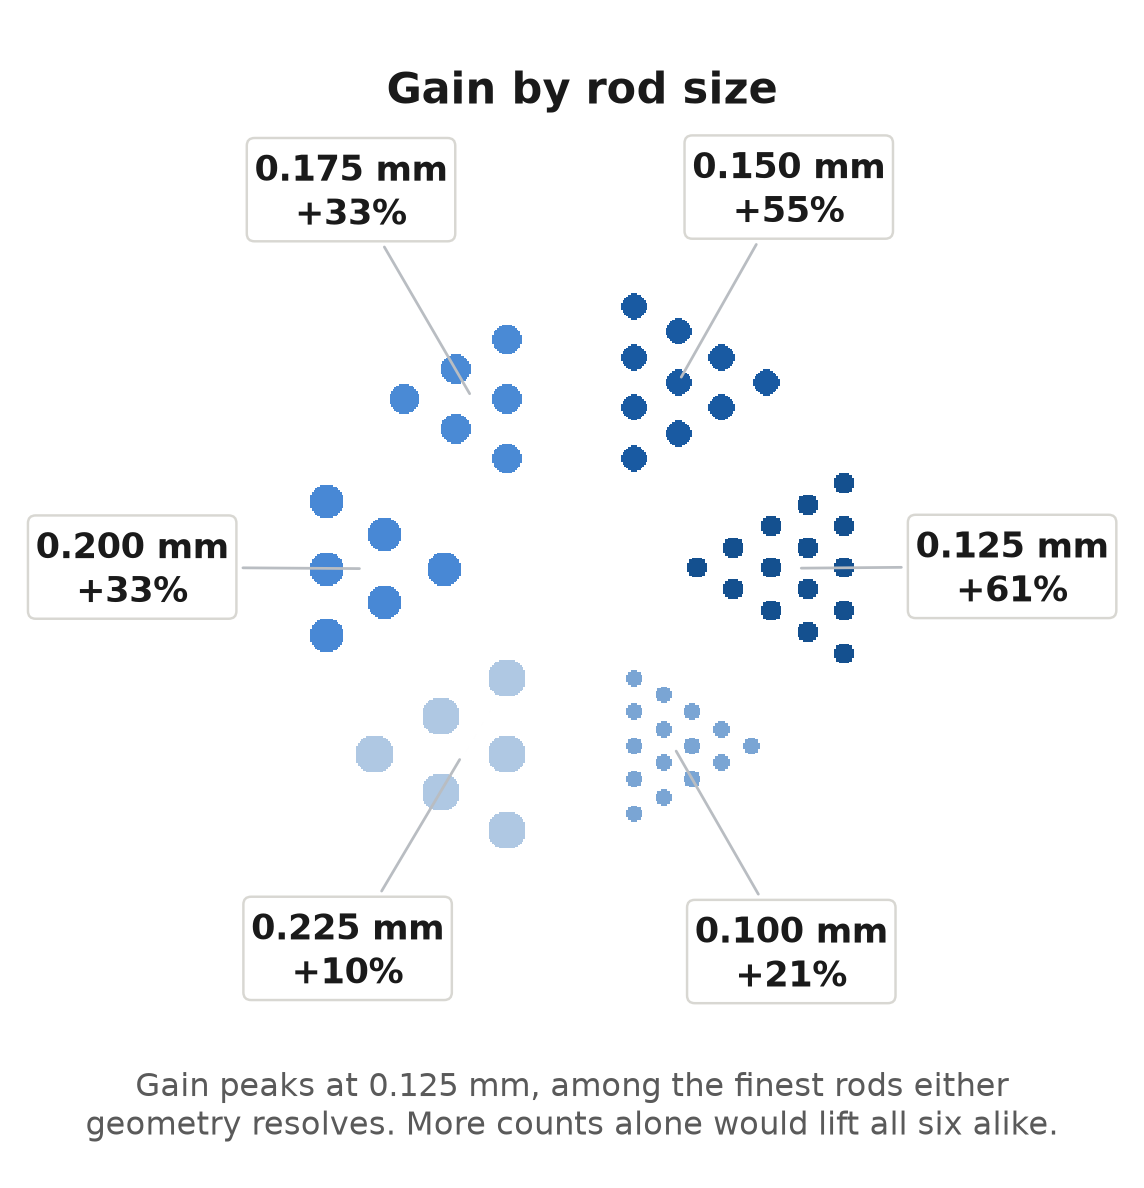
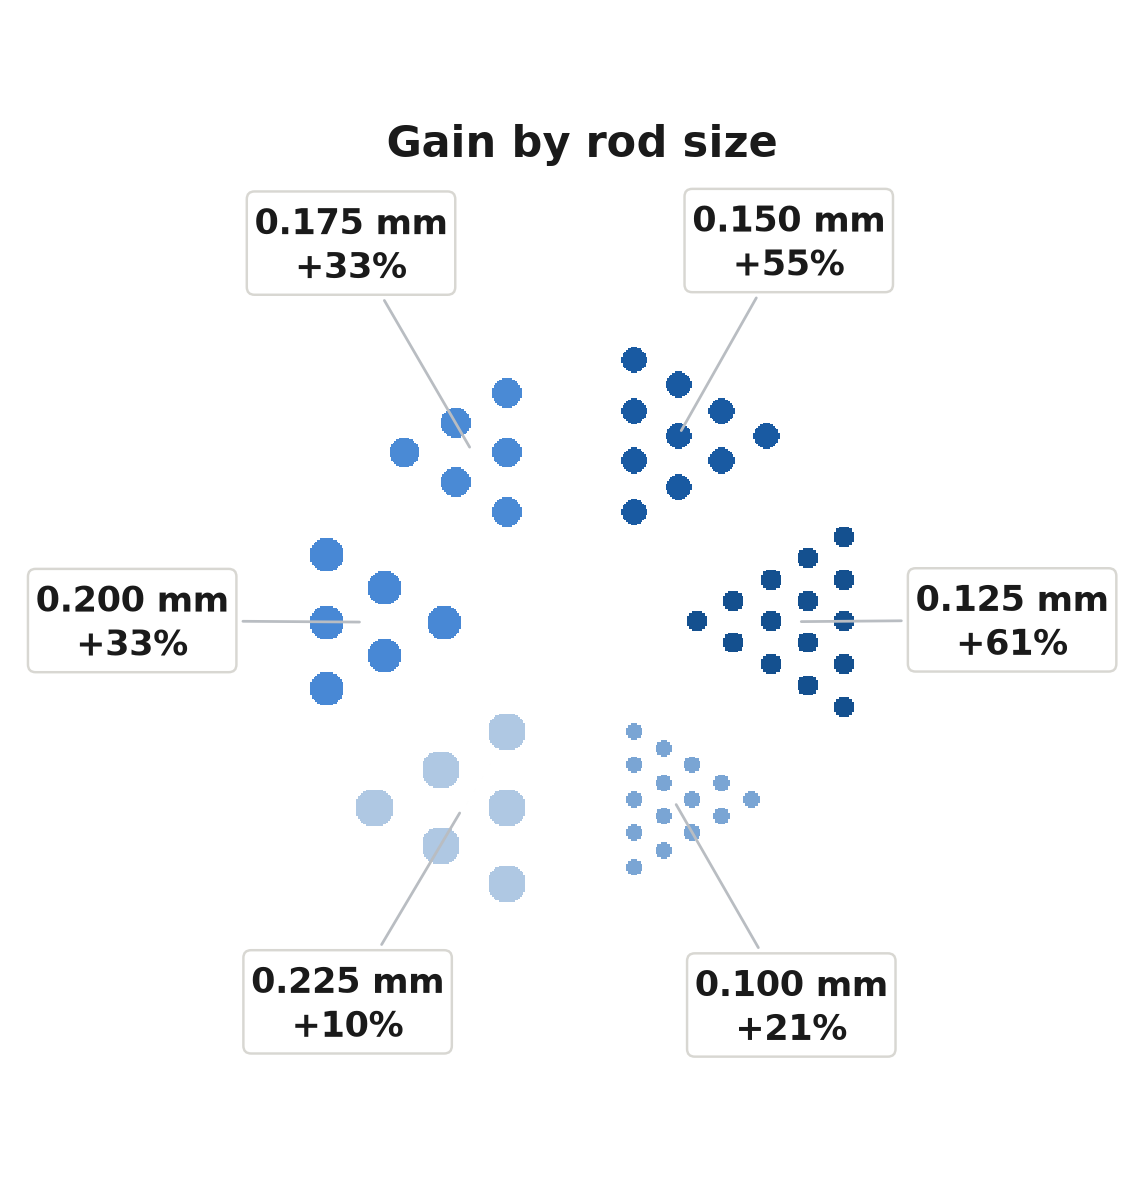
Figure updates from the slide-by-slide review

diff --git a/spebt/optimization/make_gain_map_figure.py b/spebt/optimization/make_gain_map_figure.py
@@ -106,12 +106,9 @@ def main():
     ax.set_title("Gain by rod size", fontsize=14, fontweight="bold",
                  color=INK, pad=8)
     peak = int(np.argmax(gains))
-    fig.text(0.5, 0.045,
-             f"Gain peaks at {ROD_RADII[peak]:.3f} mm, among the finest rods "
-             f"either\ngeometry resolves. More counts alone would lift all six "
-             f"alike.",
-             ha="center", fontsize=10.5, color=MUTED)
-    fig.tight_layout(rect=(0, 0.11, 1, 0.97))
+    # No caption: the slide's own bullets already say this, and Dr. Yao
+    # objected to a figure restating the text beside it.
+    fig.tight_layout(rect=(0, 0.02, 1, 0.97))
     fig.savefig(a.out, dpi=a.dpi, facecolor="white")
     # The caption claims an interior peak. The smallest rods sit near the
     # resolution limit of BOTH geometries, so they do not gain the most --
